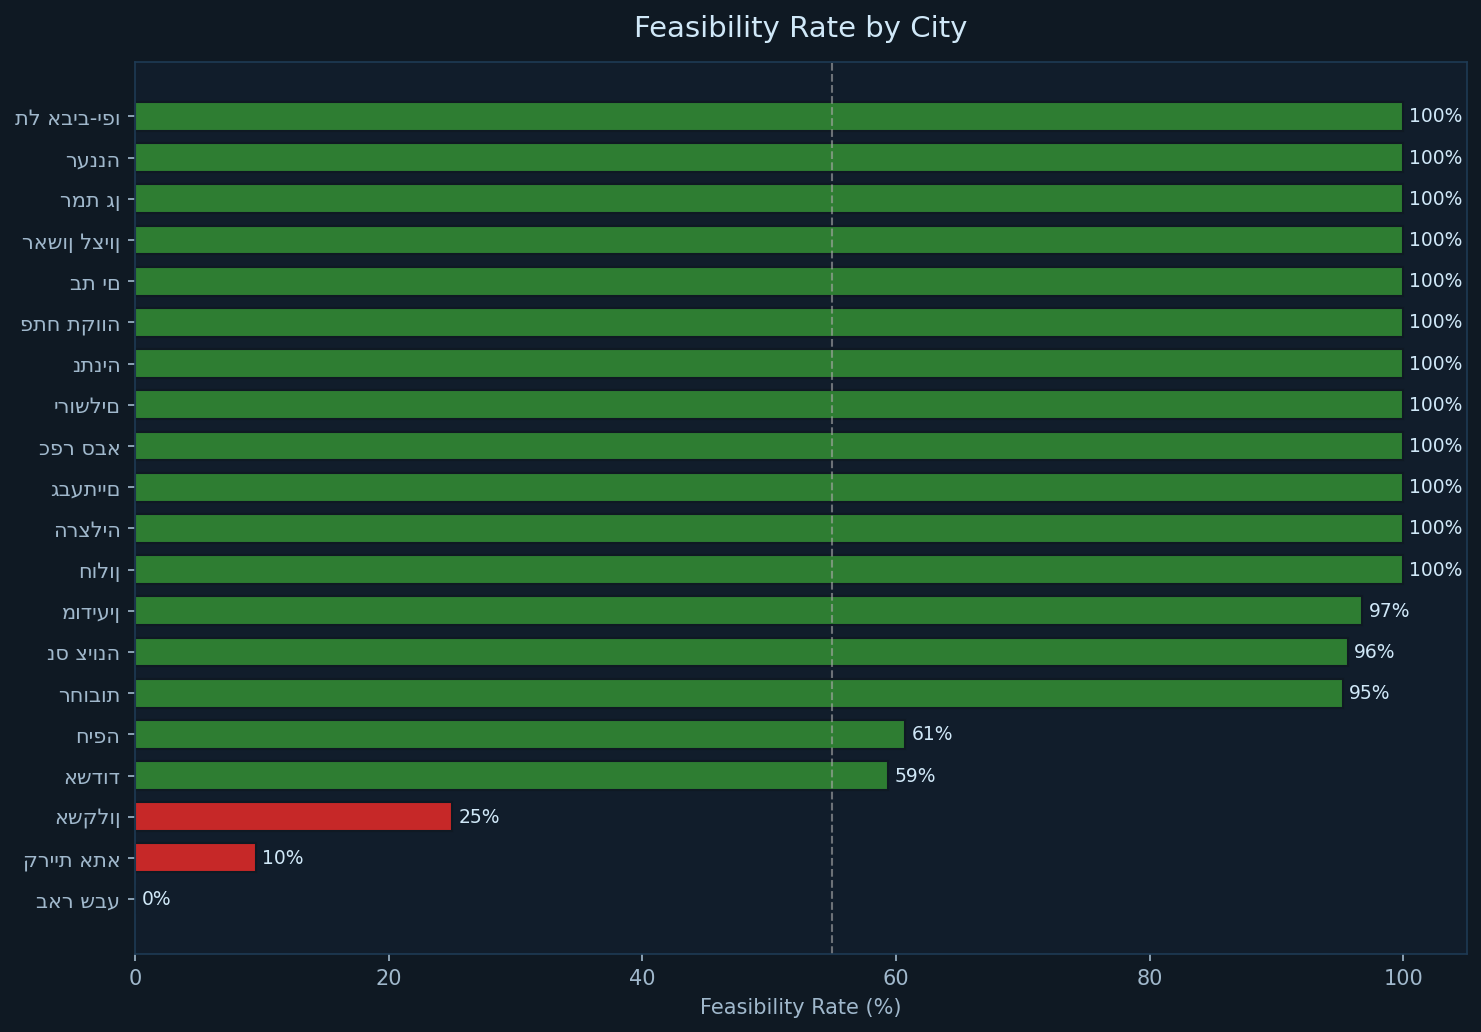
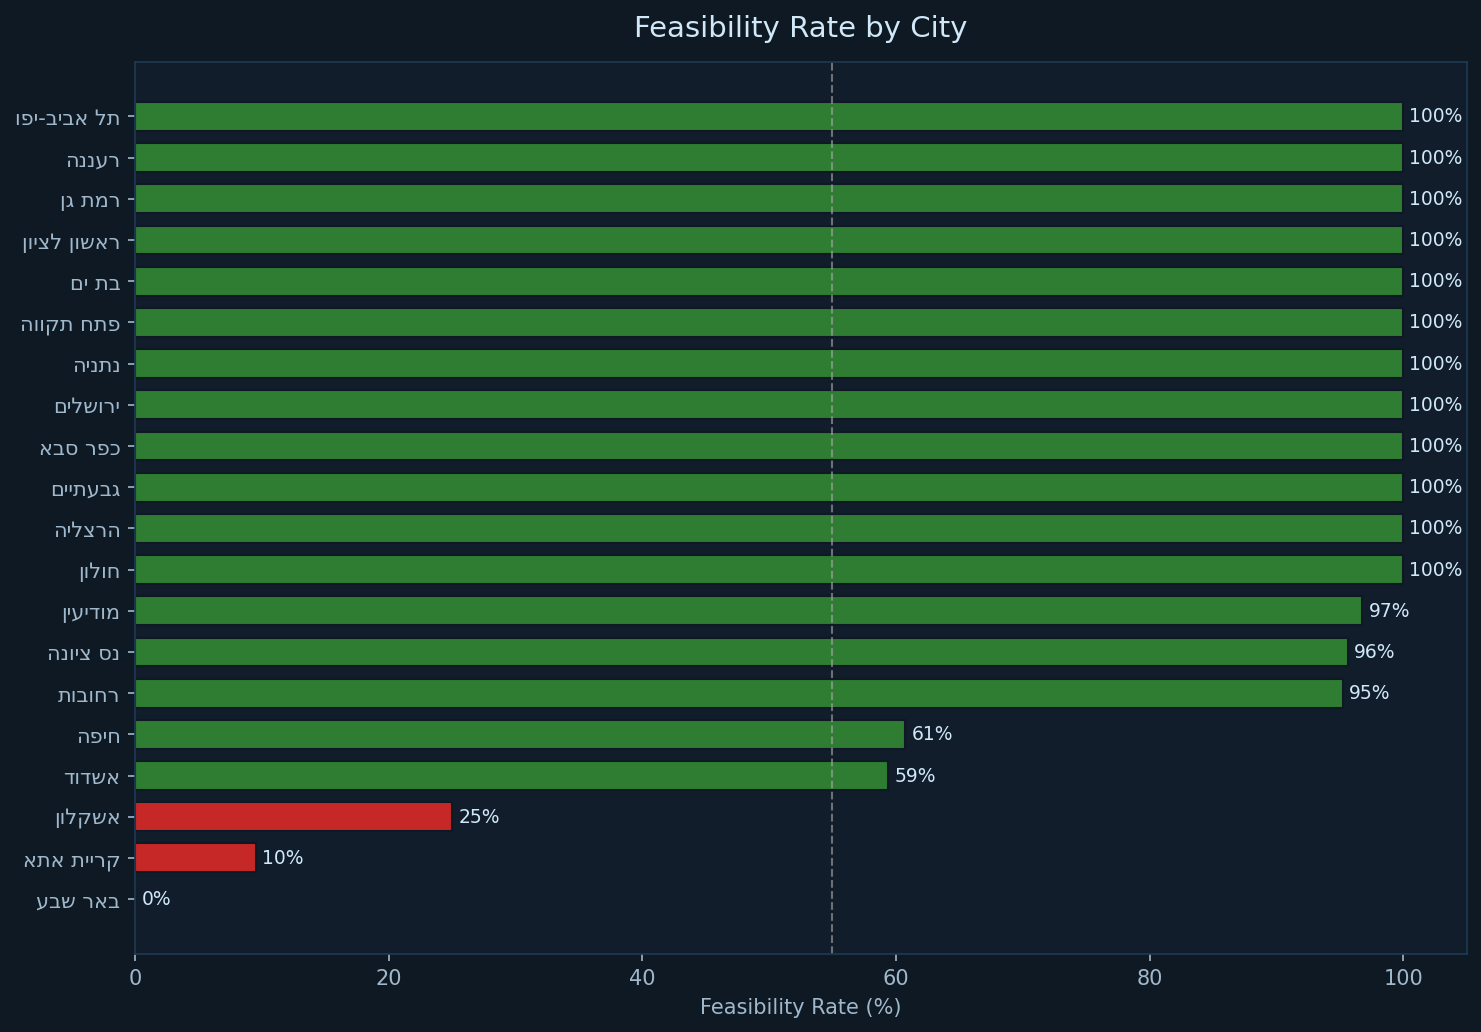
Fix reversed Hebrew RTL text in charts 02, 03, 05
Added python-bidi fix_heb() helper to eda_and_eval.py:
- Chart 02: city names on Y-axis now display correctly RTL
- Chart 03: correlation heatmap Hebrew feature names now correct
- Chart 05: project type names on X-axis now display correctly RTL

Regenerated 3 PNG figures and updated embedded image in PPTX Slide 6.

diff --git a/notebooks/eda_and_eval.py b/notebooks/eda_and_eval.py
@@ -8,6 +8,10 @@ import seaborn as sns
 import json
 import sys
 from pathlib import Path
+from bidi.algorithm import get_display
+
+def fix_heb(text):
+    return get_display(str(text))
 
 ROOT = Path(__file__).parent.parent
 DATA_PATH = ROOT / "data" / "urban_renewal_dataset.xlsx"
@@ -64,7 +68,8 @@ city_stats = city_stats.sort_values("feas_rate", ascending=True)
 fig, ax = plt.subplots(figsize=(10, 7))
 fig.patch.set_facecolor("#0f1923")
 colors = [GREEN if r >= 0.55 else RED for r in city_stats["feas_rate"]]
-bars = ax.barh(city_stats["city"], city_stats["feas_rate"] * 100,
+city_stats["city_display"] = city_stats["city"].apply(fix_heb)
+bars = ax.barh(city_stats["city_display"], city_stats["feas_rate"] * 100,
                color=colors, edgecolor="#0f1923", height=0.7)
 ax.set_xlabel("Feasibility Rate (%)")
 ax.set_title("Feasibility Rate by City", fontsize=14, pad=12)
@@ -84,6 +89,8 @@ num_features = [
     "ציון_כדאיות_0_100", "כדאי_1_לא_0"
 ]
 corr = df[num_features].corr()
+corr.index   = [fix_heb(c) for c in corr.index]
+corr.columns = [fix_heb(c) for c in corr.columns]
 
 fig, ax = plt.subplots(figsize=(11, 9))
 fig.patch.set_facecolor("#0f1923")
@@ -136,7 +143,8 @@ for ax, (col, title, fmt) in zip(axes, metrics):
     bars = ax.bar(proj_stats["סוג_פרויקט"], proj_stats[col],
                   color=[TEAL, "#1a6b3a", "#1a3a6b"], edgecolor="#0f1923")
     ax.set_title(title, fontsize=11)
-    ax.set_xticklabels(proj_stats["סוג_פרויקט"], rotation=15, ha="right", fontsize=8)
+    ax.set_xticks(range(len(proj_stats)))
+    ax.set_xticklabels([fix_heb(v) for v in proj_stats["סוג_פרויקט"]], rotation=15, ha="right", fontsize=8)
     for bar, val in zip(bars, proj_stats[col]):
         ax.text(bar.get_x() + bar.get_width()/2, bar.get_height() + 0.01,
                 fmt(val), ha="center", fontsize=9, color="#d0e8f8")